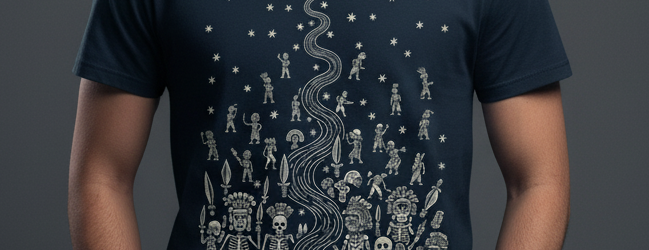
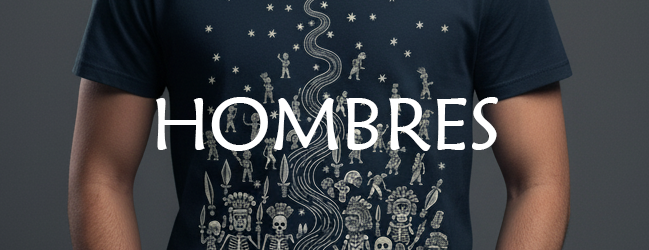
Fix categories style

Changed region(s): [[0.2157, 0.392, 0.7704, 0.616]]

diff --git a/src/js/aboutUs.js b/src/js/aboutUs.js
@@ -1,0 +1,83 @@
+const teamMembers = [
+  { name: "Denisse Lizeth González González", role: "Desarrolladora web Fullstack con enfoque en Back-End y formación Físico-Matemática.", image: "img/team-pictures/foto-Denisse-Lizeth-González-González.jpg", linkedin: "https://www.linkedin.com/in/denisse-lizeth-gonzalez/" },
+  { name: "Jaime Armando Martínez Palomera", role: "Desarrollador fullstack usando HTML, CSS, JS.", image: "img/team-pictures/foto-Jaime-Armando-Martínez-Palomera.png", linkedin: "https://www.linkedin.com/in/martinezpalomera92/" },
+  { name: "Jose Alberto Escalante Toledo", role: "Programador full stack con interés en front-end.", image: "img/team-pictures/foto-Jose-Alberto-Escalante-Toledo.jpg", linkedin: "https://www.linkedin.com/in/alberto-escalante-toledo/" },
+  { name: "José Angel Tirado Luna", role: "Desarrollador Java FullStack con enfoque backend.", image: "img/team-pictures/foto-José-Angel-Tirado-Luna.jpg", linkedin: "https://www.linkedin.com/in/jose-angel-tirado/" },
+  { name: "Kóoton Calli", role: "by: Peter y sus Desarrolladores", image: "img/Kooton-Calli-Logo-StandAlone.jpg", linkedin: "" },
+  { name: "Miguel Adrian Ortega Herrera", role: "Desarrollador Web en formación, Ingeniería en Sistemas.", image: "img/team-pictures/foto-Miguel-Adrian-Ortega-Herrera.jpg", linkedin: "https://www.linkedin.com/in/miguel-adrian-ortegah9/" },
+  { name: "Nicteha Fragoso", role: "Desarrolladora Full Stack con enfoque en Frontend.", image: "img/team-pictures/foto-Nicteha-Fragoso.jpg", linkedin: "https://www.linkedin.com/in/nicteha-fragoso/" },
+  { name: "Pedro Serrano Viveros", role: "Frontend con enfoque UX/UI.", image: "img/team-pictures/foto-Pedro-Serrano-Viveros.jpg", linkedin: "https://www.linkedin.com/in/pedro-serrano23/" },
+  { name: "Yeudiel Avelar Martínez", role: "Desarrolladora Full Stack con iniciativa y trabajo en equipo.", image: "img/team-pictures/foto-Yeudiel-Avelar-Martínez.jpg", linkedin: "https://www.linkedin.com/in/avelar-martinez-yeudiel/" }
+];
+
+// Crear la tarjeta
+function createCard(member) {
+  return `
+    <div class="card-container">
+      <div class="card">
+        <div class="card-face card-front">
+          <img src="${member.image}" alt="Foto de ${member.name}">
+        </div>
+        <div class="card-face card-back">
+          <h3>${member.name}</h3>
+          <p>${member.role}</p>
+          ${member.linkedin 
+            ? `<a href="${member.linkedin}" target="_blank" class="btn btn-primary">Ver Perfil</a>` 
+            : ""}
+        </div>
+      </div>
+    </div>
+  `;
+}
+
+// Referencias
+const teamGrid = document.getElementById("teamGrid");
+const carouselInner = document.getElementById("carouselInner");
+const teamCarousel = document.getElementById("teamCarousel");
+
+function addFlipListeners() {
+  document.querySelectorAll('.card').forEach(card => {
+    // Limpiar listeners previos
+    card.onclick = null;
+
+    card.addEventListener('click', () => {
+      const grid = card.closest('#teamGrid');
+      const carousel = card.closest('#teamCarousel');
+
+      // Detectar número de columnas reales del grid
+      let columns = 3;
+      if (grid) {
+        const style = window.getComputedStyle(grid);
+        const columnCount = style.getPropertyValue('grid-template-columns').split(' ').length;
+        columns = columnCount;
+      }
+
+      // Reglas:
+      // - Grid 3 columnas → solo hover (no clic)
+      // - Grid 2 columnas o carrusel → clic para voltear
+      if (columns < 3 || carousel) {
+        card.classList.toggle('flipped');
+      }
+    });
+  });
+}
+
+// Llamar después de renderizar y al cambiar layout
+function renderTeam() {
+  teamGrid.innerHTML = "";
+  carouselInner.innerHTML = "";
+
+  teamMembers.forEach((member, index) => {
+    teamGrid.innerHTML += createCard(member);
+
+    const carouselItem = document.createElement("div");
+    carouselItem.className = "carousel-item" + (index === 0 ? " active" : "");
+    carouselItem.innerHTML = createCard(member);
+    carouselInner.appendChild(carouselItem);
+  });
+
+  addFlipListeners();
+}
+
+// Ejecutar la función cuando el DOM esté listo
+document.addEventListener('DOMContentLoaded', renderTeam);

diff --git a/index.html b/index.html
@@ -66,9 +66,7 @@
                         <!-- Img for lg screens -->
                         <a href="./html/womenCategory.html"></a><img src="img/products-images/woman-with-hoodie-home.png" class="img-fluid woman-img-home" alt="Modelo mexicana usando una playera azul marino con estampado estilo mexicano, calaveras y colores llamativos.">
                     </picture>
-                    <!--<a href=""><img id="woman-img-home" class="img-fluid woman-img-home"
-                            src="img/products-images/woman-with-hoodie-home.png" alt="..."></a>-->
-                    <div class="overlay-text"><a href="html/womenCategory.html">MUJERES</a></div>
+                   
                 </div>
             </div>
             <div class="col-md-6 col-lg-5 mb-4">
@@ -80,9 +78,7 @@
                         <!-- Img for lg screens -->
                         <a href="#"></a><img src="img/products-images/man-whit-hoodie-home.png" class="img-fluid man-img-home" alt="Modelo mexicano usando una playera verde botella con estampado estilo mexicano, calaveras y colores llamativos.">
                     </picture>
-                    <!--<a href="#"><img class="img-fluid man-img-home" src="img/products-images/man-whit-hoodie-home.png"
-                            alt="..."></a>-->
-                    <div class="overlay-text">HOMBRES</div>
+
                 </div>
             </div>
         </div>

diff --git a/src/css/home.css b/src/css/home.css
@@ -43,15 +43,3 @@
     position: relative;
     text-align: center;
 }
-
-.overlay-text{
-    position: absolute; 
-    top: 50%; 
-    left: 50%; 
-    transform: translate(-50%, -50%);
-    color: white; 
-    background-color: rgba(0, 0, 0, 0.0);
-    padding: 5px 10px; 
-    font-family: var(--font-display);
-    font-size: 2rem;
-}
